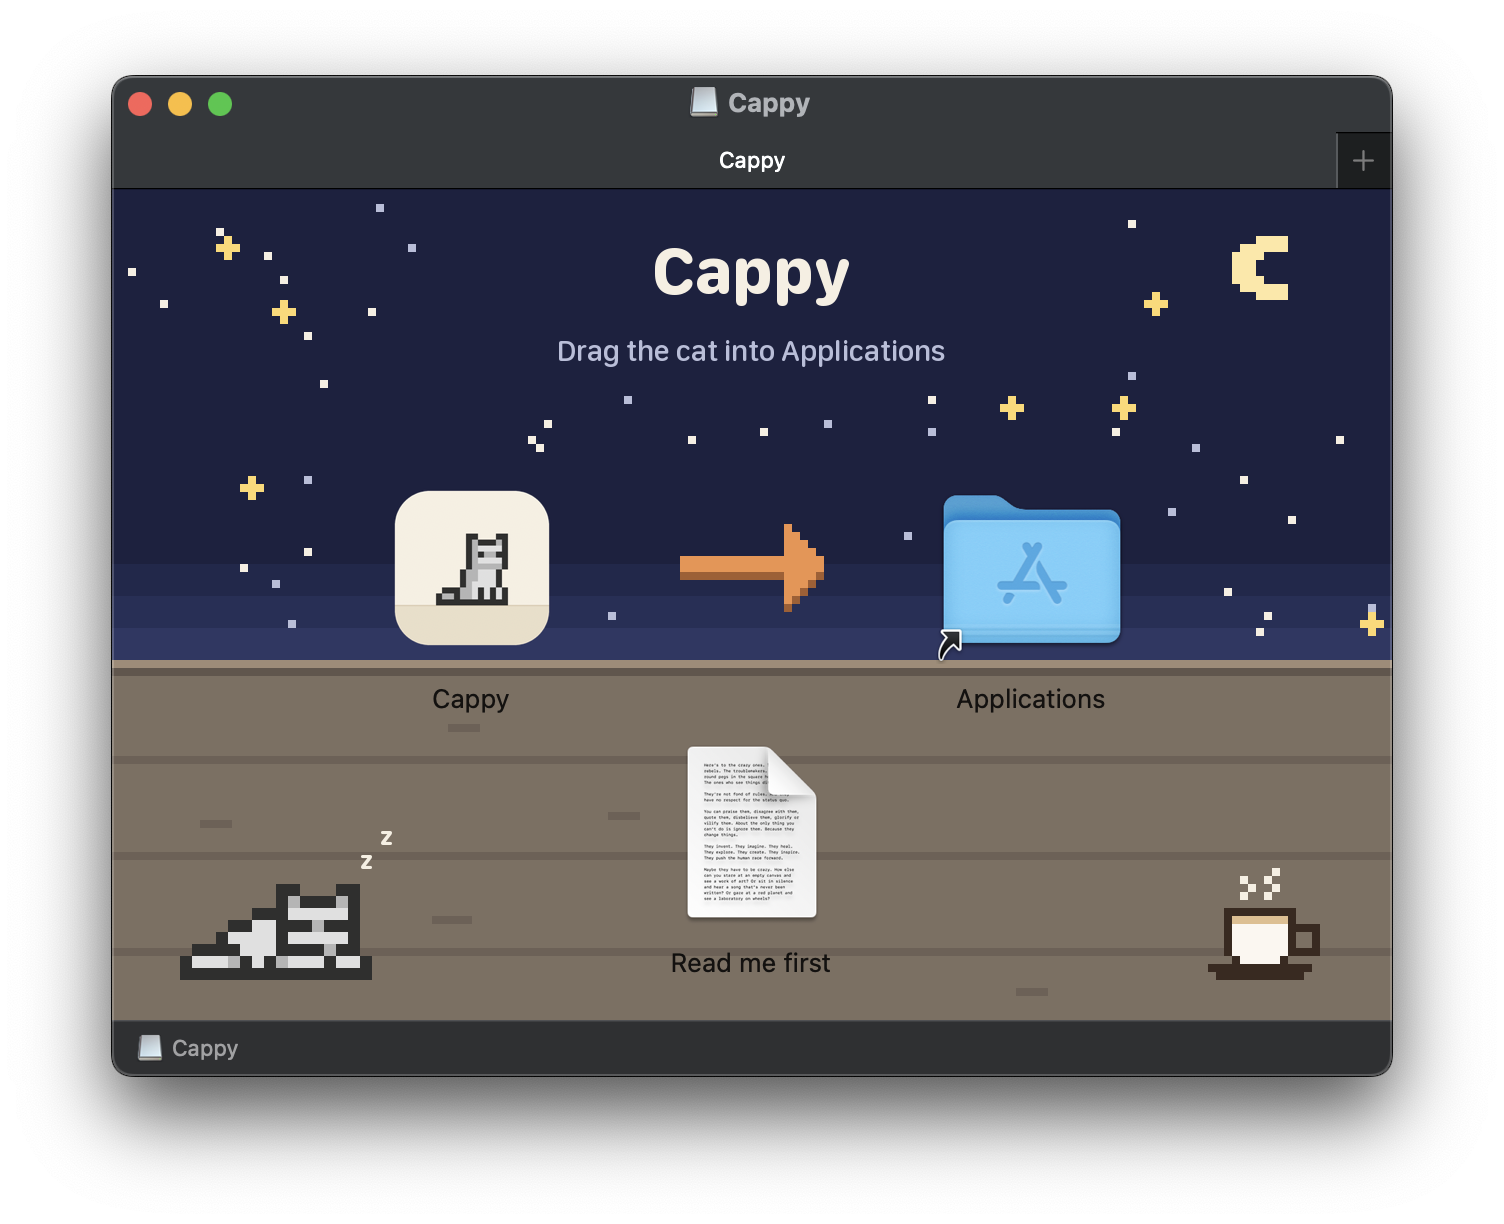
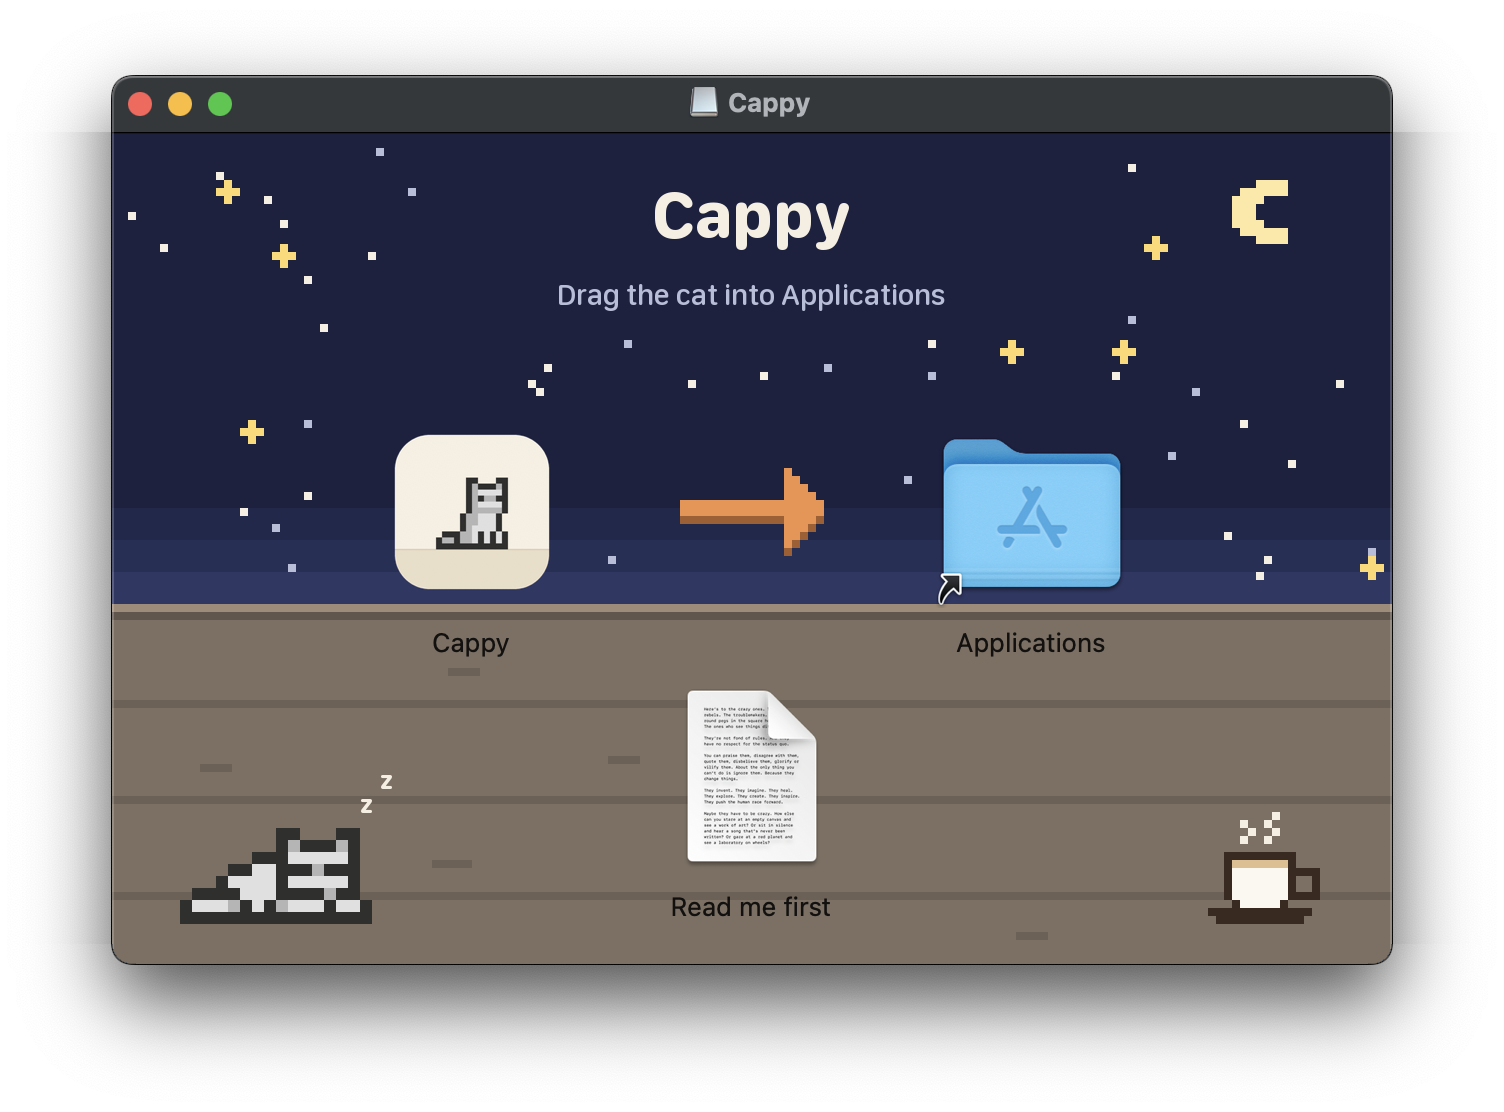
Retake the awake screenshot and drop Finder's bars from the DMG shot

diff --git a/README.md b/README.md
@@ -3,7 +3,7 @@
 A tiny pixel cat in your menu bar that keeps your Mac awake.
 
 <p>
-  <img src="docs/screenshots/menubar-awake.gif" height="37" alt="Cappy awake in the menu bar with 1h41 left">
+  <img src="docs/screenshots/menubar-awake.gif" height="37" alt="Cappy awake in the menu bar with 59 minutes left">
   &nbsp;&nbsp;
   <img src="docs/screenshots/menubar-asleep.gif" height="37" alt="Cappy asleep in the menu bar">
 </p>
